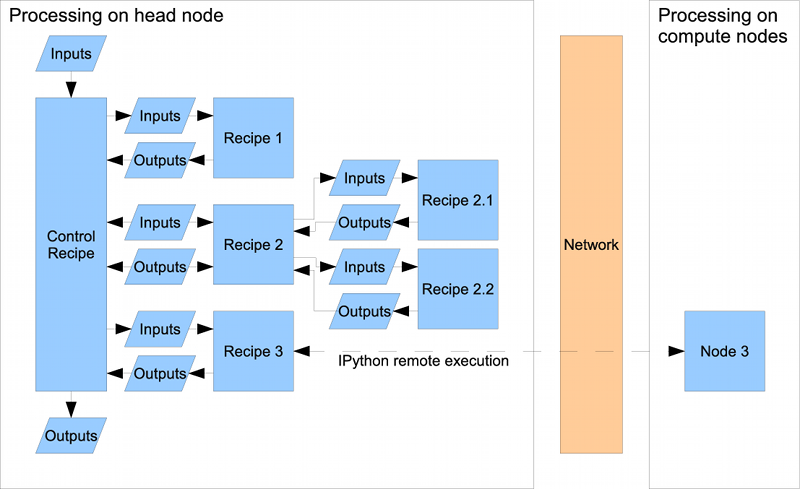
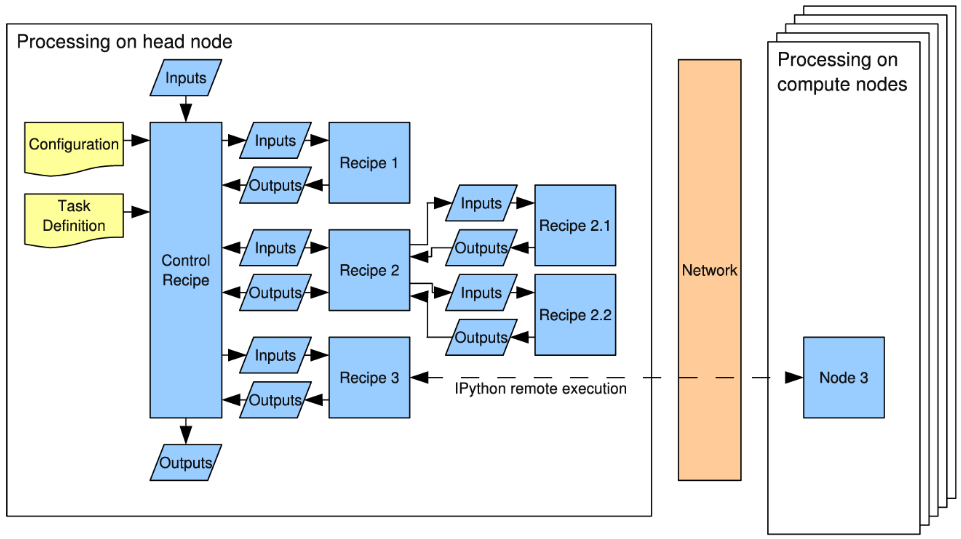
Updates. Start on overview of pipeline structure.
git-svn-id: http://usg.lofar.org/svn/code/trunk@4541 e3a606d5-b720-0410-b6ad-cb58f335abf8

diff --git a/src/pipeline/docs/source/framework/overview/index.rst b/src/pipeline/docs/source/framework/overview/index.rst
@@ -1,0 +1,56 @@
+*****************
+Pipeline Overview
+*****************
+
+Before plunging into the nitty-gritty of all the various components that make
+up a pipeline, let's first take a bird's-eye overview of the concepts
+involved.
+
+The figure shows a schmatic pipeline layout, illustrating most of the relevant
+concepts. We will consider each of these in turn below.
+
+.. image:: ../pipeline-flowchart.png
+
+Cluster Layout
+==============
+
+The pipeline framework makes the assumption that it will run on a cluster
+comprised of a "head node" and a number of "compute nodes". The pipeline
+control logic runs on the head node, and may perform less compute-intensive
+jobs here. When required, jobs are dispatched over the network to the compute
+nodes: the head node may then wait and receive the results before continuing.
+Job definition and parameters may be pushed to the compute nodes directly from
+the head using :ref:`ipython-blurb`; however, for bandwidth and latency
+reasons, large data files should be written to and read from shared NFS
+mounts.
+
+Recipes
+=======
+
+A *recipe* is a unit of the pipeline. It consists of a a task with a given set
+of inputs and outputs. A given recipe may contain calls to subsidiary recipes,
+for which it will provide the inputs and use the outputs in its own
+processing. Note that the whole pipeline control structure is itself a recipe:
+it takes a given set of inputs (visibility data) and produces some outputs
+(images and associated metadata) by running through a series of defined steps.
+In fact, each of those steps is itself a recipe -- one for flagging, one for
+calibration, and so on.
+
+Control
+=======
+
+The *control* recipe is a specialist type of a normal recipe. The fundamentals
+are the same; however, it contains some additional "housekeeping" logic which
+may be useful for starting a pipeline. For instance, the control recipe can
+configure a logging system for the pipeline, and may be used to interface with
+LOFAR's MAC/SAS control system.
+
+Distributed Processing
+======================
+
+Tasks and Configuration
+=======================
+
+
+
+

diff --git a/src/pipeline/docs/source/framework/dependencies/index.rst b/src/pipeline/docs/source/framework/dependencies/index.rst
@@ -1,13 +1,16 @@
-=========
-Framework
-=========
+************
+Dependencies
+************
 
 The LOFAR pipeline system is built using the `Python
-<http://www.python.org/>`_ programming language. It relies on various
-libraries and tools.
+<http://www.python.org/>`_ programming language. It builds upon the following
+libraries and tools. The short descriptions given here should serve as
+background material for those who simply wish to use the framework: directly
+interacting with these components should rarely be necessary. Developers, of
+course, will wish to learn in detail about all of these libraries.
 
 Cuisine
--------
+=======
 The pipeline is constructed using a system based on the `WSRT Cuisine
 <http://www.astron.nl/~renting/pipeline_frame.html>`_ framework developed by
 Adriaan Renting; the reader is encouraged to refer to its documentation. Some
@@ -33,8 +36,10 @@ modificatins have been made. These include:
 * Assorted bug-fixes and tweaks.
 
 
+.. _ipython-blurb:
+
 IPython
--------
+=======
 `IPython <http://ipython.scipy.org>`_, billed as "an enhanced interactive
 Python", also provides a comprehensive and easy-to-use suite of tools for
 parallel processing across a cluster of compute nodes using Python. This
@@ -59,7 +64,7 @@ recipe for an example of its use.
 .. _distproc-blurb:
 
 distproc
---------
+========
 An alternative method of starting a distributed process across the cluster is
 to use the ``distproc`` system by Ger van Diepen. This system is used
 internally by various pipeline components, such as the MWImager; the intested
@@ -92,7 +97,7 @@ systems to schedule jobs on the appropriate compute nodes.
 .. _fabric-blurb:
 
 Fabric
-------
+======
 `Fabric <http://docs.fabfile.org/>`_ is "a Python library and command-line
 tool designed to streamline deploying applications or performing system
 administration tasks via the SSH protocol", to quote the website. In the

diff --git a/src/pipeline/docs/source/framework/infrastructure/index.rst b/src/pipeline/docs/source/framework/infrastructure/index.rst
@@ -1,12 +1,11 @@
-===================
-Building a pipeline
-===================
+********************
+Infrastructure Setup
+********************
 
 One of the major aims in the design of the pipeline system is to require as
 little run-specific configuration as possible. In other words, we rely on
 convention and sensible defaults wherever possible. This section describes
 the standards that our pipeline system will rely on.
-
 
 .. _pipeline-layout:
 

diff --git a/src/pipeline/docs/source/index.rst b/src/pipeline/docs/source/index.rst
@@ -18,10 +18,11 @@ various components of the framework and how they fit together.
 .. toctree::
    :maxdepth: 2
 
-   framework/dependencies/index.rst
+   framework/overview/index.rst
    framework/recipe/index.rst
    framework/parallel/index.rst
-   framework/pipeline/index.rst
+   framework/infrastructure/index.rst
+   framework/dependencies/index.rst
 
 The Standard Imaging Pipeline
 =============================
